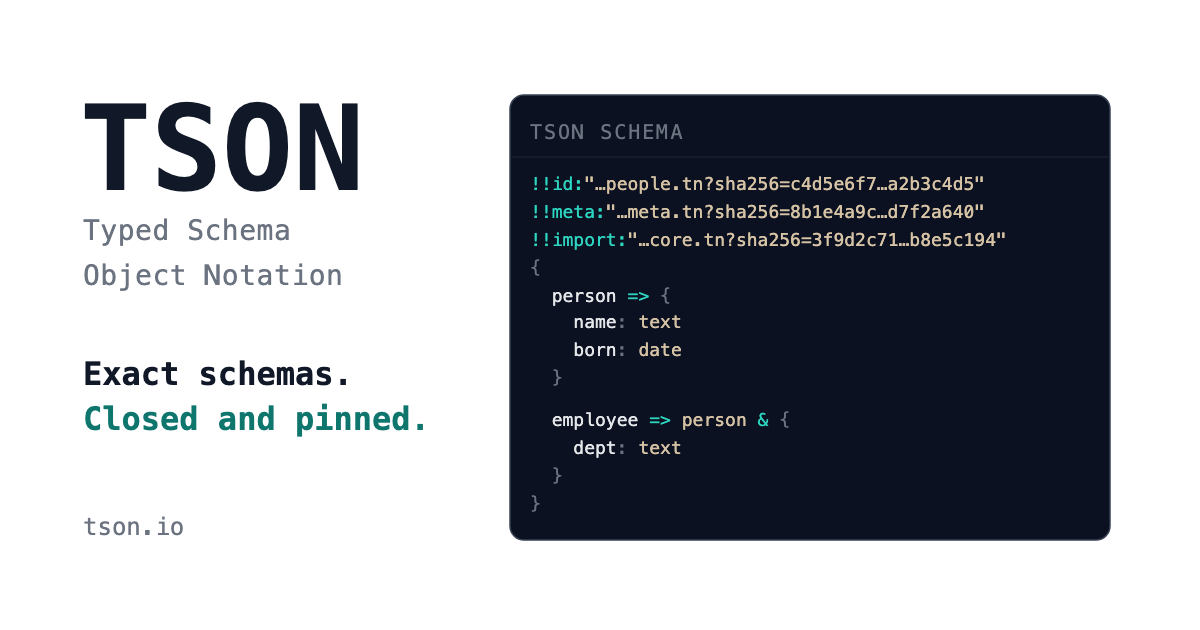
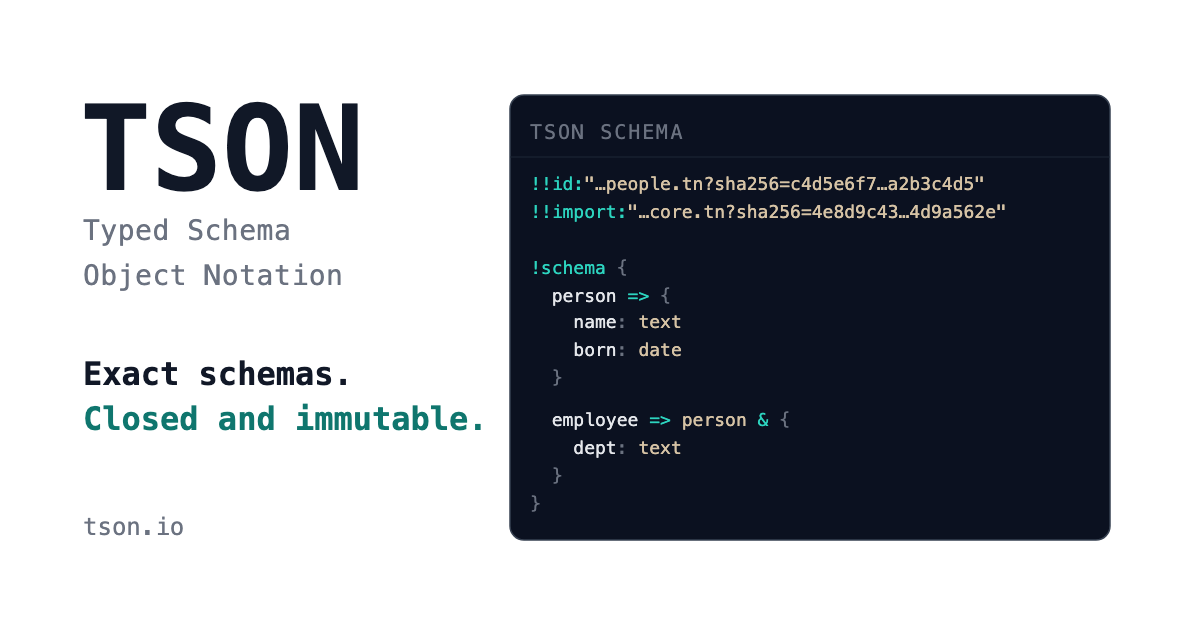
Say "closed and immutable", and bring the share card and README to revision 39
"Pinned" is this project's word for naming a schema by hash; readers
outside it don't know it. "Immutable" says what that buys: the schema a
document follows can't change under it. The headline, meta description,
share card, README opener and llms.txt opener now say so.

The longer second line, 21 characters, is sized per breakpoint to stay on
one line: 20px at 320px, 24px from 375px, 30px from sm, 26px in md's half
column and 34px from lg.

The share card's schema sample was revision 38: a !!meta line and a bare
root. It now carries !!id and the core !!import with core's real pin,
4e8d9c43…4d9a562e, and a !schema root. The README opener matches the
llms.txt About text. The note under the validator said the schema header
names its meta-schema and type library; in revision 39 it names itself and
core, which pins the libraries and kernel beneath it.

Changed region(s): [[0.4317, 0.3016, 0.8325, 0.4524], [0.2467, 0.6333, 0.4008, 0.6937]]

diff --git a/README.md b/README.md
@@ -1,14 +1,18 @@
 # tson.io
 
 tson.io is the home of the **TSON** (Typed Schema Object Notation)
-project: a schema and data format for data interchange, built around strong
-semantic definitions and closed-world, verifiable schemas.
+project: a schema and data format for data interchange, focused on exact
+schemas built from the shape of data. Its schemas are closed-world — a schema
+admits nothing it doesn't declare — and immutable: every document names the
+schema it follows by SHA-256 hash, and every schema its libraries. Names and
+tokens are checked against Unicode confusables and restricted scripts, so
+look-alike characters can't pass as trusted names.
 
 Where JSON-like formats optimise for visual readability, minimal syntax, and
 convention, TSON optimises for the opposite priorities — semantic transparency,
-explicit structure, and verifiable schemas. That makes it a natural fit for
-systems where correctness matters more than terseness, including AI and LLM
-pipelines that must read and write structured data without ambiguity.
+explicit structure, and verifiable schemas. That exactness is what lets AI both
+author schemas and write data against them, and what makes TSON a foundation
+for APIs, RPCs and identity.
 
 TSON is built from an abstract data model and type system — a *proto-schema* —
 for serialized data, derived from the physical constraints of serialization
